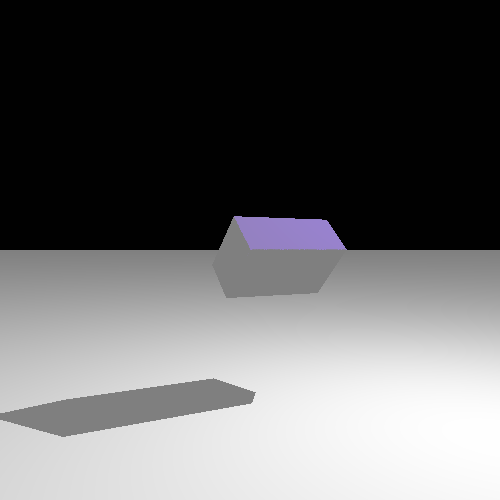
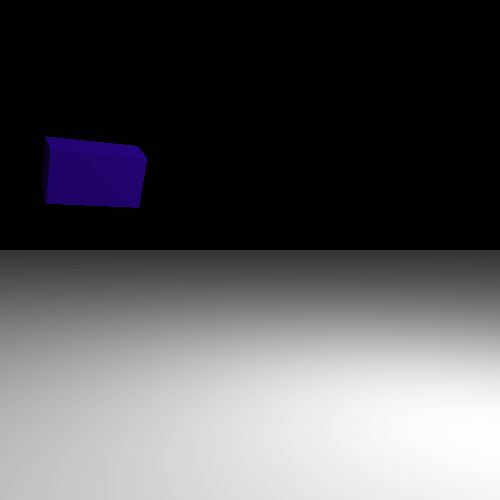
Modified ambient lighting scheme to manage non-white light. Added some test images

diff --git a/shapes.py b/shapes.py
@@ -237,7 +237,14 @@ class World(object):
 		self.camera = camera
 		self.screen = screen
 		self.lights = lights
+		self.sum_lights = self.get_sum_lights()
 		self.shapes = shapes
+
+	def get_sum_lights(self):
+		sum_lights = array([0, 0, 0, 255])
+		for light in self.lights: 
+			sum_lights = sum_lights + self.get_rgb(light.color)
+		return minimum(sum_lights, array([255, 255, 255, 255]))
 
 	def set_screen(self, screen):
 		self.screen = screen
@@ -324,8 +331,11 @@ class World(object):
 		return lighting.astype(int)
 
 	def get_ambient_light(self, illum, shape):
-		light_deficit = shape.rgb[:3]-illum[:3]
-		return append(.2*light_deficit, 0).astype(int)
+		light_deficit = self.sum_lights[:3]-illum[:3]
+		min_deficit = min(light_deficit)
+		benchmark_color = where(light_deficit==min_deficit)
+		bump_percent = .2*min_deficit/255
+		return append(bump_percent*minimum(self.sum_lights[:3], shape.rgb[:3]), 0).astype(int)
 		# max_color = max(illum[:3])
 		# al_coef = .2
 		# if max_color == 0: 
@@ -373,15 +383,15 @@ class World(object):
 
 		my_image = Image.new(mode, size)
 		my_image.putdata(pixels)
-		my_image.save('test-images/betsy_test.png')
+		my_image.save('test-images/block.png')
 
 
 camera = Camera(100)
 screen = Screen(100, 100, (500, 500))
 
 light0 = Light(array([100, 100, -100]))
-light1 = Light(array([100, 100, -100]), color='12ECA9')
-light2 = Light(array([-100, 100, -100]), color='FCF76C')
+light1 = Light(array([100, 100, -75]), color='12ECA9')
+light2 = Light(array([-100, 100, -75]), color='FCF76C')
 light3 = Light(array([0, 100, -100]))
 lights0 = [light0]
 lights12 = [light1, light2]
@@ -423,11 +433,12 @@ shapes2 = [s5, s6, s7, s8, b0, plane]
 shapes3 = [b1, b2, b3, s6, s7, s8, plane]
 
 colored_spheres = World(camera, screen, lights0, shapes0)
+colored_spheres_and_light = World(camera, screen, lights12, shapes0)
 emmi_world = World(camera, screen, lights3, shapes0)
 block_test = World(camera, screen, lights0, shapes1)
 blocks_and_spheres = World(camera, screen, lights0, shapes2)
 block_stack = World(camera, screen, lights0, shapes3)
 shadow_world = World(camera, screen, lights3, [b4, plane])
 
-colored_spheres.draw()
+block_test.draw()
 
